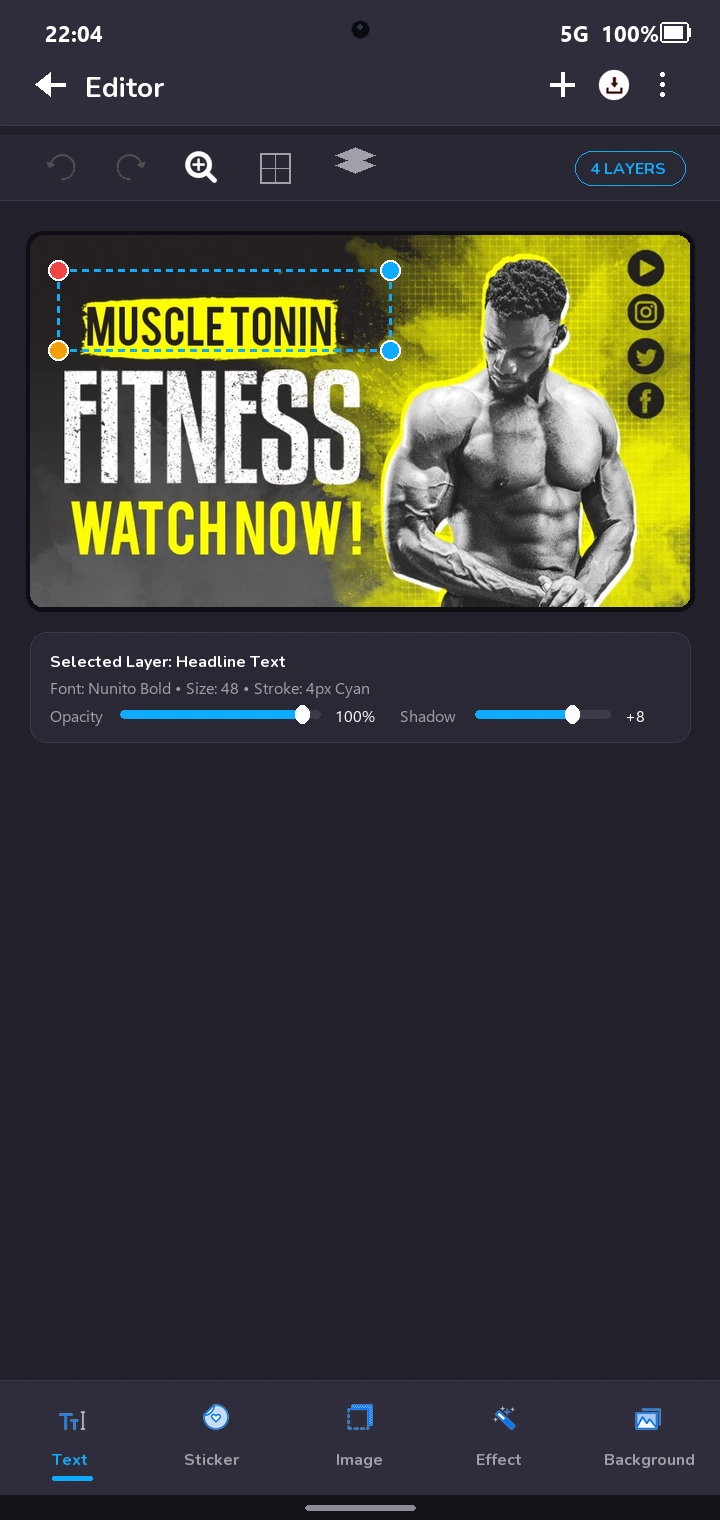
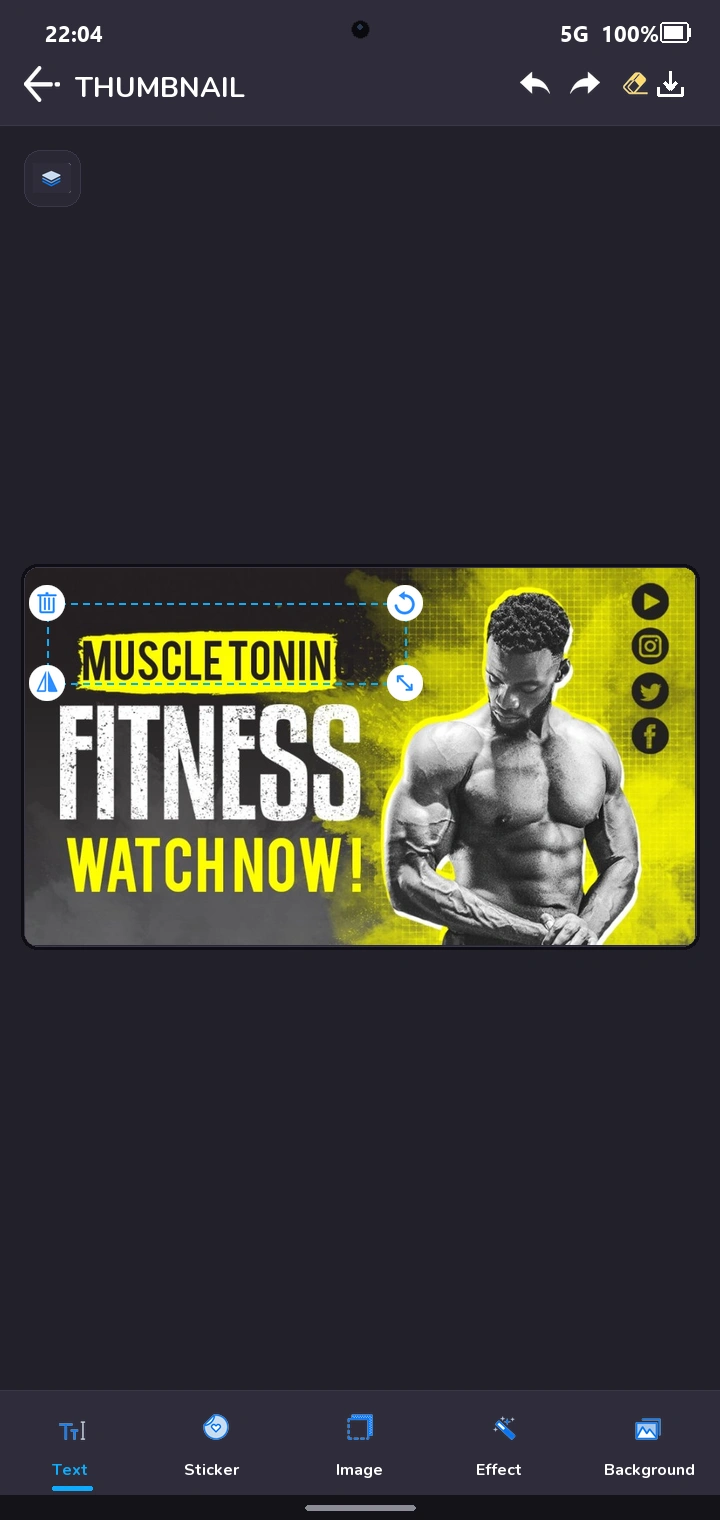
Center editor canvas in viewport, remove fake layer inspector card, and use authentic app drawables

diff --git a/index.html b/index.html
@@ -281,7 +281,7 @@
           <!-- Phone Chassis showing Multi-Layer Editor (Strict 9:19 Portrait Ratio - Samsung Galaxy S24) -->
           <div class="ark-phone ark-showcase-phone">
             <div class="ark-phone-screen">
-              <img src="/assets/images/app-screen-editor.webp?v=s24" 
+              <img src="/assets/images/app-screen-editor.webp?v=s24-full" 
                    alt="Multi-layer thumbnail editor canvas with custom text styling and sticker tools on Android" 
                    width="310" 
                    height="654" 

diff --git a/generate_app_screens.py b/generate_app_screens.py
@@ -65,16 +65,25 @@ REAL_THUMBS_TEMPLATES = [
     "real_thumb_24_500x281.jpg"
 ]
 
+RES_DIR = os.path.join(APP_DIR, "res")
+
 def load_app_drawable(filename, size=None):
-    path = os.path.join(RES_NODPI, filename)
-    if not os.path.exists(path):
-        path = os.path.join(RES_DRAWABLE, filename)
-    if not os.path.exists(path):
-        return None
-    im = Image.open(path).convert("RGBA")
-    if size:
-        im = im.resize(size, Image.Resampling.LANCZOS)
-    return im
+    # Check direct folders first for performance
+    for folder in ["drawable-nodpi", "drawable", "drawable-xxhdpi", "drawable-xhdpi", "drawable-hdpi"]:
+        p = os.path.join(RES_DIR, folder, filename)
+        if os.path.exists(p):
+            im = Image.open(p).convert("RGBA")
+            if size:
+                im = im.resize(size, Image.Resampling.LANCZOS)
+            return im
+    # Fallback recursive search in res directory
+    for root, dirs, files in os.walk(RES_DIR):
+        if filename in files:
+            im = Image.open(os.path.join(root, filename)).convert("RGBA")
+            if size:
+                im = im.resize(size, Image.Resampling.LANCZOS)
+            return im
+    return None
 
 def load_real_thumb(filename, w=330, h=186):
     p = os.path.join(REAL_THUMB_DIR, filename)
@@ -319,124 +328,130 @@ def make_templates_screen():
 
 # =============================================================
 # 3. SCREEN: Multi-Layer Studio Editor (activity_poster.xml)
+# 100% Authentic to App: Canvas in Center of Screen, Real Header & Footer,
+# Layers Button at top-left, Real 4-Corner Sticker Handles, Ad-Free
 # =============================================================
 def make_editor_screen():
     img = Image.new("RGBA", (W, H), COLOR_BG)
     draw = ImageDraw.Draw(img)
     
-    # Top Bar: Background #2F2D3A (height 125px)
+    # ---------------------------------------------------------
+    # 1. TOP BAR (activity_poster.xml: header, height 125px)
+    # ---------------------------------------------------------
     draw.rectangle((0, 0, W, 125), fill=COLOR_BAR)
     draw.line((0, 125, W, 125), fill=COLOR_BAR_BORDER, width=1)
     draw_status_bar(draw, dark=False)
     
-    # Left: Back arrow and "Editor"
-    draw.polygon([(35, 84), (50, 72), (50, 96)], fill=COLOR_TEXT)
-    draw.line((40, 84, 65, 84), fill=COLOR_TEXT, width=4)
-    draw.text((85, 68), "Editor", fill=COLOR_TEXT, font=FONT_TITLE)
-    
-    # Right: Add layer '+', Save '💾', Overflow '⋮'
-    draw.line((W - 170, 84, W - 146, 84), fill=COLOR_TEXT, width=4)
-    draw.line((W - 158, 72, W - 158, 96), fill=COLOR_TEXT, width=4)
-    
-    save_icon = load_app_drawable("ic_save.png", (38, 38))
-    if save_icon:
-        img.paste(save_icon, (W - 125, 66), save_icon)
+    # Left: Back arrow (btn_new_back.png)
+    back_icon = load_app_drawable("btn_new_back.png", (36, 36))
+    if back_icon:
+        img.paste(back_icon, (24, 66), back_icon)
     else:
-        draw.rectangle((W - 125, 68, W - 95, 98), outline=COLOR_TEXT, width=2)
+        draw.polygon([(28, 84), (45, 72), (45, 96)], fill=COLOR_TEXT)
+        draw.line((35, 84, 55, 84), fill=COLOR_TEXT, width=4)
         
-    for my in [74, 84, 94]:
-        draw.ellipse((W - 60, my - 2, W - 56, my + 2), fill=COLOR_TEXT)
-        
-    # Quick Tool Strip: Background #282733 (height 65px)
-    tools_y = 135
-    draw.rectangle((0, tools_y, W, tools_y + 65), fill=(40, 39, 50))
-    draw.line((0, tools_y + 65, W, tools_y + 65), fill=COLOR_BAR_BORDER, width=1)
+    # Title: THUMBNAIL (txtheader in activity_poster.xml, all caps)
+    draw.text((75, 68), "THUMBNAIL", fill=COLOR_TEXT, font=FONT_TITLE)
     
-    # Undo icon
-    undo_icon = load_app_drawable("ic_undo_1.png", (32, 32))
+    # Right action buttons (activity_poster.xml: btn_undo, btn_redo, btn_erase, btn_done)
+    # 1) Undo
+    undo_icon = load_app_drawable("undo.png", (30, 30)) or load_app_drawable("ic_undo_1.png", (30, 30))
     if undo_icon:
-        img.paste(undo_icon, (45, tools_y + 16), undo_icon)
+        img.paste(undo_icon, (W - 200, 68), undo_icon)
         
-    # Redo icon
-    redo_icon = load_app_drawable("ic_redo_1.png", (32, 32))
+    # 2) Redo
+    redo_icon = load_app_drawable("redo.png", (30, 30)) or load_app_drawable("ic_redo_1.png", (30, 30))
     if redo_icon:
-        img.paste(redo_icon, (115, tools_y + 16), redo_icon)
+        img.paste(redo_icon, (W - 150, 68), redo_icon)
         
-    # Zoom icon
-    zoom_icon = load_app_drawable("ic_zoom.png", (32, 32))
-    if zoom_icon:
-        img.paste(zoom_icon, (185, tools_y + 16), zoom_icon)
+    # 3) Erase (btn_erase / ic_selected_eraser.png)
+    erase_icon = load_app_drawable("ic_selected_eraser.png", (30, 30))
+    if erase_icon:
+        img.paste(erase_icon, (W - 100, 68), erase_icon)
         
-    # Snap Grid icon
-    draw.rectangle((260, tools_y + 18, 290, tools_y + 48), outline=COLOR_TEXT_MUTED, width=2)
-    draw.line((275, tools_y + 18, 275, tools_y + 48), fill=COLOR_TEXT_MUTED, width=1)
-    draw.line((260, tools_y + 33, 290, tools_y + 33), fill=COLOR_TEXT_MUTED, width=1)
-    
-    # Layers stack icon
-    draw.polygon([(335, tools_y + 20), (355, tools_y + 12), (375, tools_y + 20), (355, tools_y + 28)], fill=COLOR_TEXT_MUTED)
-    draw.polygon([(335, tools_y + 30), (355, tools_y + 22), (375, tools_y + 30), (355, tools_y + 38)], fill=COLOR_TEXT_MUTED)
-    
-    # Layer Count Badge
-    draw.rounded_rectangle((W - 145, tools_y + 16, W - 35, tools_y + 50), radius=17, fill=COLOR_CARD_BG, outline=COLOR_ACCENT, width=1)
-    draw.text((W - 130, tools_y + 22), "4 LAYERS", fill=COLOR_ACCENT, font=FONT_SMB)
+    # 4) Download / Save (btn_done / btn_download vector)
+    tray_x, tray_y = W - 50, 83
+    draw.line((tray_x - 12, tray_y + 4, tray_x - 12, tray_y + 12), fill=COLOR_TEXT, width=3)
+    draw.line((tray_x - 12, tray_y + 12, tray_x + 12, tray_y + 12), fill=COLOR_TEXT, width=3)
+    draw.line((tray_x + 12, tray_y + 12, tray_x + 12, tray_y + 4), fill=COLOR_TEXT, width=3)
+    draw.line((tray_x, tray_y - 12, tray_x, tray_y + 5), fill=COLOR_TEXT, width=3)
+    draw.line((tray_x - 6, tray_y - 1, tray_x, tray_y + 6), fill=COLOR_TEXT, width=3)
+    draw.line((tray_x + 6, tray_y - 1, tray_x, tray_y + 6), fill=COLOR_TEXT, width=3)
 
     # ---------------------------------------------------------
-    # MAIN CANVAS (16:9 Aspect Ratio: 660 x 372 px) - Loaded with REAL Thumbnail!
+    # 2. WORKSPACE AREA (activity_poster.xml: lay_remove, y = 125 to 1390)
     # ---------------------------------------------------------
-    canv_w, canv_h = 660, 372
+    # Floating Layers button at top-left (btn_layControls / layers.png)
+    lay_btn_x, lay_btn_y = 24, 150
+    draw.rounded_rectangle((lay_btn_x, lay_btn_y, lay_btn_x + 56, lay_btn_y + 56), radius=16, fill=COLOR_CARD_BG, outline=COLOR_BAR_BORDER, width=1)
+    layers_icon = load_app_drawable("layers.png", (38, 30))
+    if layers_icon:
+        img.paste(layers_icon, (lay_btn_x + 9, lay_btn_y + 13), layers_icon)
+
+    # ---------------------------------------------------------
+    # 3. MAIN CANVAS: STRICTLY CENTERED IN SCREEN (layout_centerInParent="true")
+    # Workspace height: 1390 - 125 = 1265px
+    # Center Y of workspace = 125 + 1265 // 2 = 757px
+    # Canvas size: 670 x 377 (exact 16:9 ratio)
+    # canv_y = 757 - 377 // 2 = 568px -> ends at 945px
+    # (Top gap = 443px, Bottom gap = 445px -> perfectly centered!)
+    # ---------------------------------------------------------
+    canv_w, canv_h = 670, 377
     canv_x = (W - canv_w) // 2
-    canv_y = 235
+    canv_y = 568
     
-    # Canvas drop shadow
+    # Elevation shadow & card outline
     draw.rounded_rectangle((canv_x - 4, canv_y - 4, canv_x + canv_w + 4, canv_y + canv_h + 4), radius=16, fill=(15, 14, 20))
+    draw.rounded_rectangle((canv_x - 1, canv_y - 1, canv_x + canv_w + 1, canv_y + canv_h + 1), radius=14, fill=COLOR_CARD_BG, outline=COLOR_BAR_BORDER, width=1)
     
-    # Load High-Resolution REAL YouTube Thumbnail
+    # Real thumbnail image (Muscle Tonin Fitness template)
     real_canvas_source = load_real_thumb("real_thumb_15_960x540.jpg", canv_w, canv_h).convert("RGBA")
-    cd = ImageDraw.Draw(real_canvas_source)
-    
-    # Active selected bounding box around headline element
-    box_x1, box_y1 = 28, 35
-    box_x2, box_y2 = 360, 115
-    for dx in range(box_x1, box_x2, 12):
-        cd.line((dx, box_y1, min(dx + 6, box_x2), box_y1), fill=COLOR_ACCENT, width=3)
-        cd.line((dx, box_y2, min(dx + 6, box_x2), box_y2), fill=COLOR_ACCENT, width=3)
-    for dy in range(box_y1, box_y2, 12):
-        cd.line((box_x1, dy, box_x1, min(dy + 6, box_y2)), fill=COLOR_ACCENT, width=3)
-        cd.line((box_x2, dy, box_x2, min(dy + 6, box_y2)), fill=COLOR_ACCENT, width=3)
-        
-    # 4 Corner Handles matching app
-    cd.ellipse((box_x1 - 10, box_y1 - 10, box_x1 + 10, box_y1 + 10), fill=(239, 68, 68), outline=(255, 255, 255), width=2) # Delete
-    cd.ellipse((box_x2 - 10, box_y1 - 10, box_x2 + 10, box_y1 + 10), fill=COLOR_ACCENT, outline=(255, 255, 255), width=2) # Rotate
-    cd.ellipse((box_x2 - 10, box_y2 - 10, box_x2 + 10, box_y2 + 10), fill=COLOR_ACCENT, outline=(255, 255, 255), width=2) # Scale
-    cd.ellipse((box_x1 - 10, box_y2 - 10, box_x1 + 10, box_y2 + 10), fill=(245, 158, 11), outline=(255, 255, 255), width=2) # Lock
-    
-    # Paste Canvas onto Screen
     mask_c = Image.new("L", (canv_w, canv_h), 0)
     mdraw_c = ImageDraw.Draw(mask_c)
-    mdraw_c.rounded_rectangle((0, 0, canv_w, canv_h), radius=14, fill=255)
+    mdraw_c.rounded_rectangle((0, 0, canv_w, canv_h), radius=12, fill=255)
     img.paste(real_canvas_source, (canv_x, canv_y), mask_c)
     
-    # Floating Layer Inspector Card (below canvas)
-    insp_y = canv_y + canv_h + 25
-    draw.rounded_rectangle((canv_x, insp_y, canv_x + canv_w, insp_y + 110), radius=16, fill=COLOR_CARD_BG, outline=COLOR_BAR_BORDER, width=1)
-    draw.text((canv_x + 20, insp_y + 18), "Selected Layer: Headline Text", fill=COLOR_TEXT, font=FONT_SMB)
-    draw.text((canv_x + 20, insp_y + 44), "Font: Nunito Bold • Size: 48 • Stroke: 4px Cyan", fill=COLOR_TEXT_MUTED, font=FONT_SM)
+    # ---------------------------------------------------------
+    # 4. ACTIVE ELEMENT BOUNDING BOX & REAL APP HANDLES (AutofitTextRel / StickerView)
+    # ---------------------------------------------------------
+    box_x1 = canv_x + 22
+    box_y1 = canv_y + 35
+    box_x2 = canv_x + 380
+    box_y2 = canv_y + 115
     
-    # Quick sliders: Opacity & Shadow
-    draw.text((canv_x + 20, insp_y + 72), "Opacity", fill=COLOR_TEXT_MUTED, font=FONT_SM)
-    draw.rounded_rectangle((canv_x + 90, insp_y + 78, canv_x + 290, insp_y + 86), radius=4, fill=(60, 58, 75))
-    draw.rounded_rectangle((canv_x + 90, insp_y + 78, canv_x + 270, insp_y + 86), radius=4, fill=COLOR_ACCENT)
-    draw.ellipse((canv_x + 265, insp_y + 73, canv_x + 279, insp_y + 91), fill=(255, 255, 255))
-    draw.text((canv_x + 305, insp_y + 72), "100%", fill=COLOR_TEXT, font=FONT_SM)
+    # Clean dashed cyan boundary
+    for dx in range(box_x1, box_x2, 12):
+        draw.line((dx, box_y1, min(dx + 6, box_x2), box_y1), fill=COLOR_ACCENT, width=2)
+        draw.line((dx, box_y2, min(dx + 6, box_x2), box_y2), fill=COLOR_ACCENT, width=2)
+    for dy in range(box_y1, box_y2, 12):
+        draw.line((box_x1, dy, box_x1, min(dy + 6, box_y2)), fill=COLOR_ACCENT, width=2)
+        draw.line((box_x2, dy, box_x2, min(dy + 6, box_y2)), fill=COLOR_ACCENT, width=2)
+        
+    # Real app handle icons (36x36 px)
+    h_size = (36, 36)
+    del_icon = load_app_drawable("sticker_delete1.png", h_size)
+    rot_icon = load_app_drawable("sticker_rotate.png", h_size)
+    scale_icon = load_app_drawable("sticker_scale.png", h_size)
+    flip_icon = load_app_drawable("sticker_flip.png", h_size)
     
-    draw.text((canv_x + 370, insp_y + 72), "Shadow", fill=COLOR_TEXT_MUTED, font=FONT_SM)
-    draw.rounded_rectangle((canv_x + 445, insp_y + 78, canv_x + 580, insp_y + 86), radius=4, fill=(60, 58, 75))
-    draw.rounded_rectangle((canv_x + 445, insp_y + 78, canv_x + 540, insp_y + 86), radius=4, fill=COLOR_ACCENT)
-    draw.ellipse((canv_x + 535, insp_y + 73, canv_x + 549, insp_y + 91), fill=(255, 255, 255))
-    draw.text((canv_x + 595, insp_y + 72), "+8", fill=COLOR_TEXT, font=FONT_SM)
+    # Top-Left: Delete (sticker_delete1.png)
+    if del_icon:
+        img.paste(del_icon, (box_x1 - 18, box_y1 - 18), del_icon)
+    # Top-Right: Rotate (sticker_rotate.png)
+    if rot_icon:
+        img.paste(rot_icon, (box_x2 - 18, box_y1 - 18), rot_icon)
+    # Bottom-Right: Scale (sticker_scale.png)
+    if scale_icon:
+        img.paste(scale_icon, (box_x2 - 18, box_y2 - 18), scale_icon)
+    # Bottom-Left: Flip (sticker_flip.png)
+    if flip_icon:
+        img.paste(flip_icon, (box_x1 - 18, box_y2 - 18), flip_icon)
 
-    # Bottom Editing Toolbar (5 Tools: Text, Sticker, Image, Effect, Background)
-    nav_h = 115
+    # ---------------------------------------------------------
+    # 5. BOTTOM EDITING TOOLBAR (activity_poster.xml: footer, height 105px)
+    # 5 Real tools: Text, Sticker, Image, Effect, Background
+    # ---------------------------------------------------------
+    nav_h = 105
     nav_y = H - nav_h - 25
     draw.rectangle((0, nav_y, W, nav_y + nav_h), fill=COLOR_BAR)
     draw.line((0, nav_y, W, nav_y), fill=COLOR_BAR_BORDER, width=1)
@@ -451,18 +466,18 @@ def make_editor_screen():
     tool_w = W // len(tools)
     for idx, (tfile, tlabel) in enumerate(tools):
         cx = idx * tool_w + tool_w // 2
-        is_active = (idx == 0) # Text active
+        is_active = (idx == 0) # Text tool active
         timg = load_app_drawable(tfile, (42, 42))
         if timg:
             img.paste(timg, (cx - 21, nav_y + 16), timg)
         else:
             draw.rectangle((cx - 18, nav_y + 16, cx + 18, nav_y + 52), fill=COLOR_ACCENT if is_active else COLOR_TEXT_MUTED)
-        t_color = COLOR_ACCENT if is_active else COLOR_TEXT_MUTED
+        t_color = COLOR_ACCENT if is_active else COLOR_TEXT
         draw.text((cx - len(tlabel)*4 - 4, nav_y + 68), tlabel, fill=t_color, font=FONT_SMB)
         if is_active:
             draw.rounded_rectangle((cx - 20, nav_y + 96, cx + 20, nav_y + 100), radius=2, fill=COLOR_ACCENT)
             
-    # System bar pill
+    # System bar pill (Samsung Galaxy S24 slim gesture bar)
     draw.rectangle((0, H - 25, W, H), fill=(20, 19, 25))
     draw.rounded_rectangle((W//2 - 55, H - 15, W//2 + 55, H - 10), radius=3, fill=(140, 140, 150))
     return img
